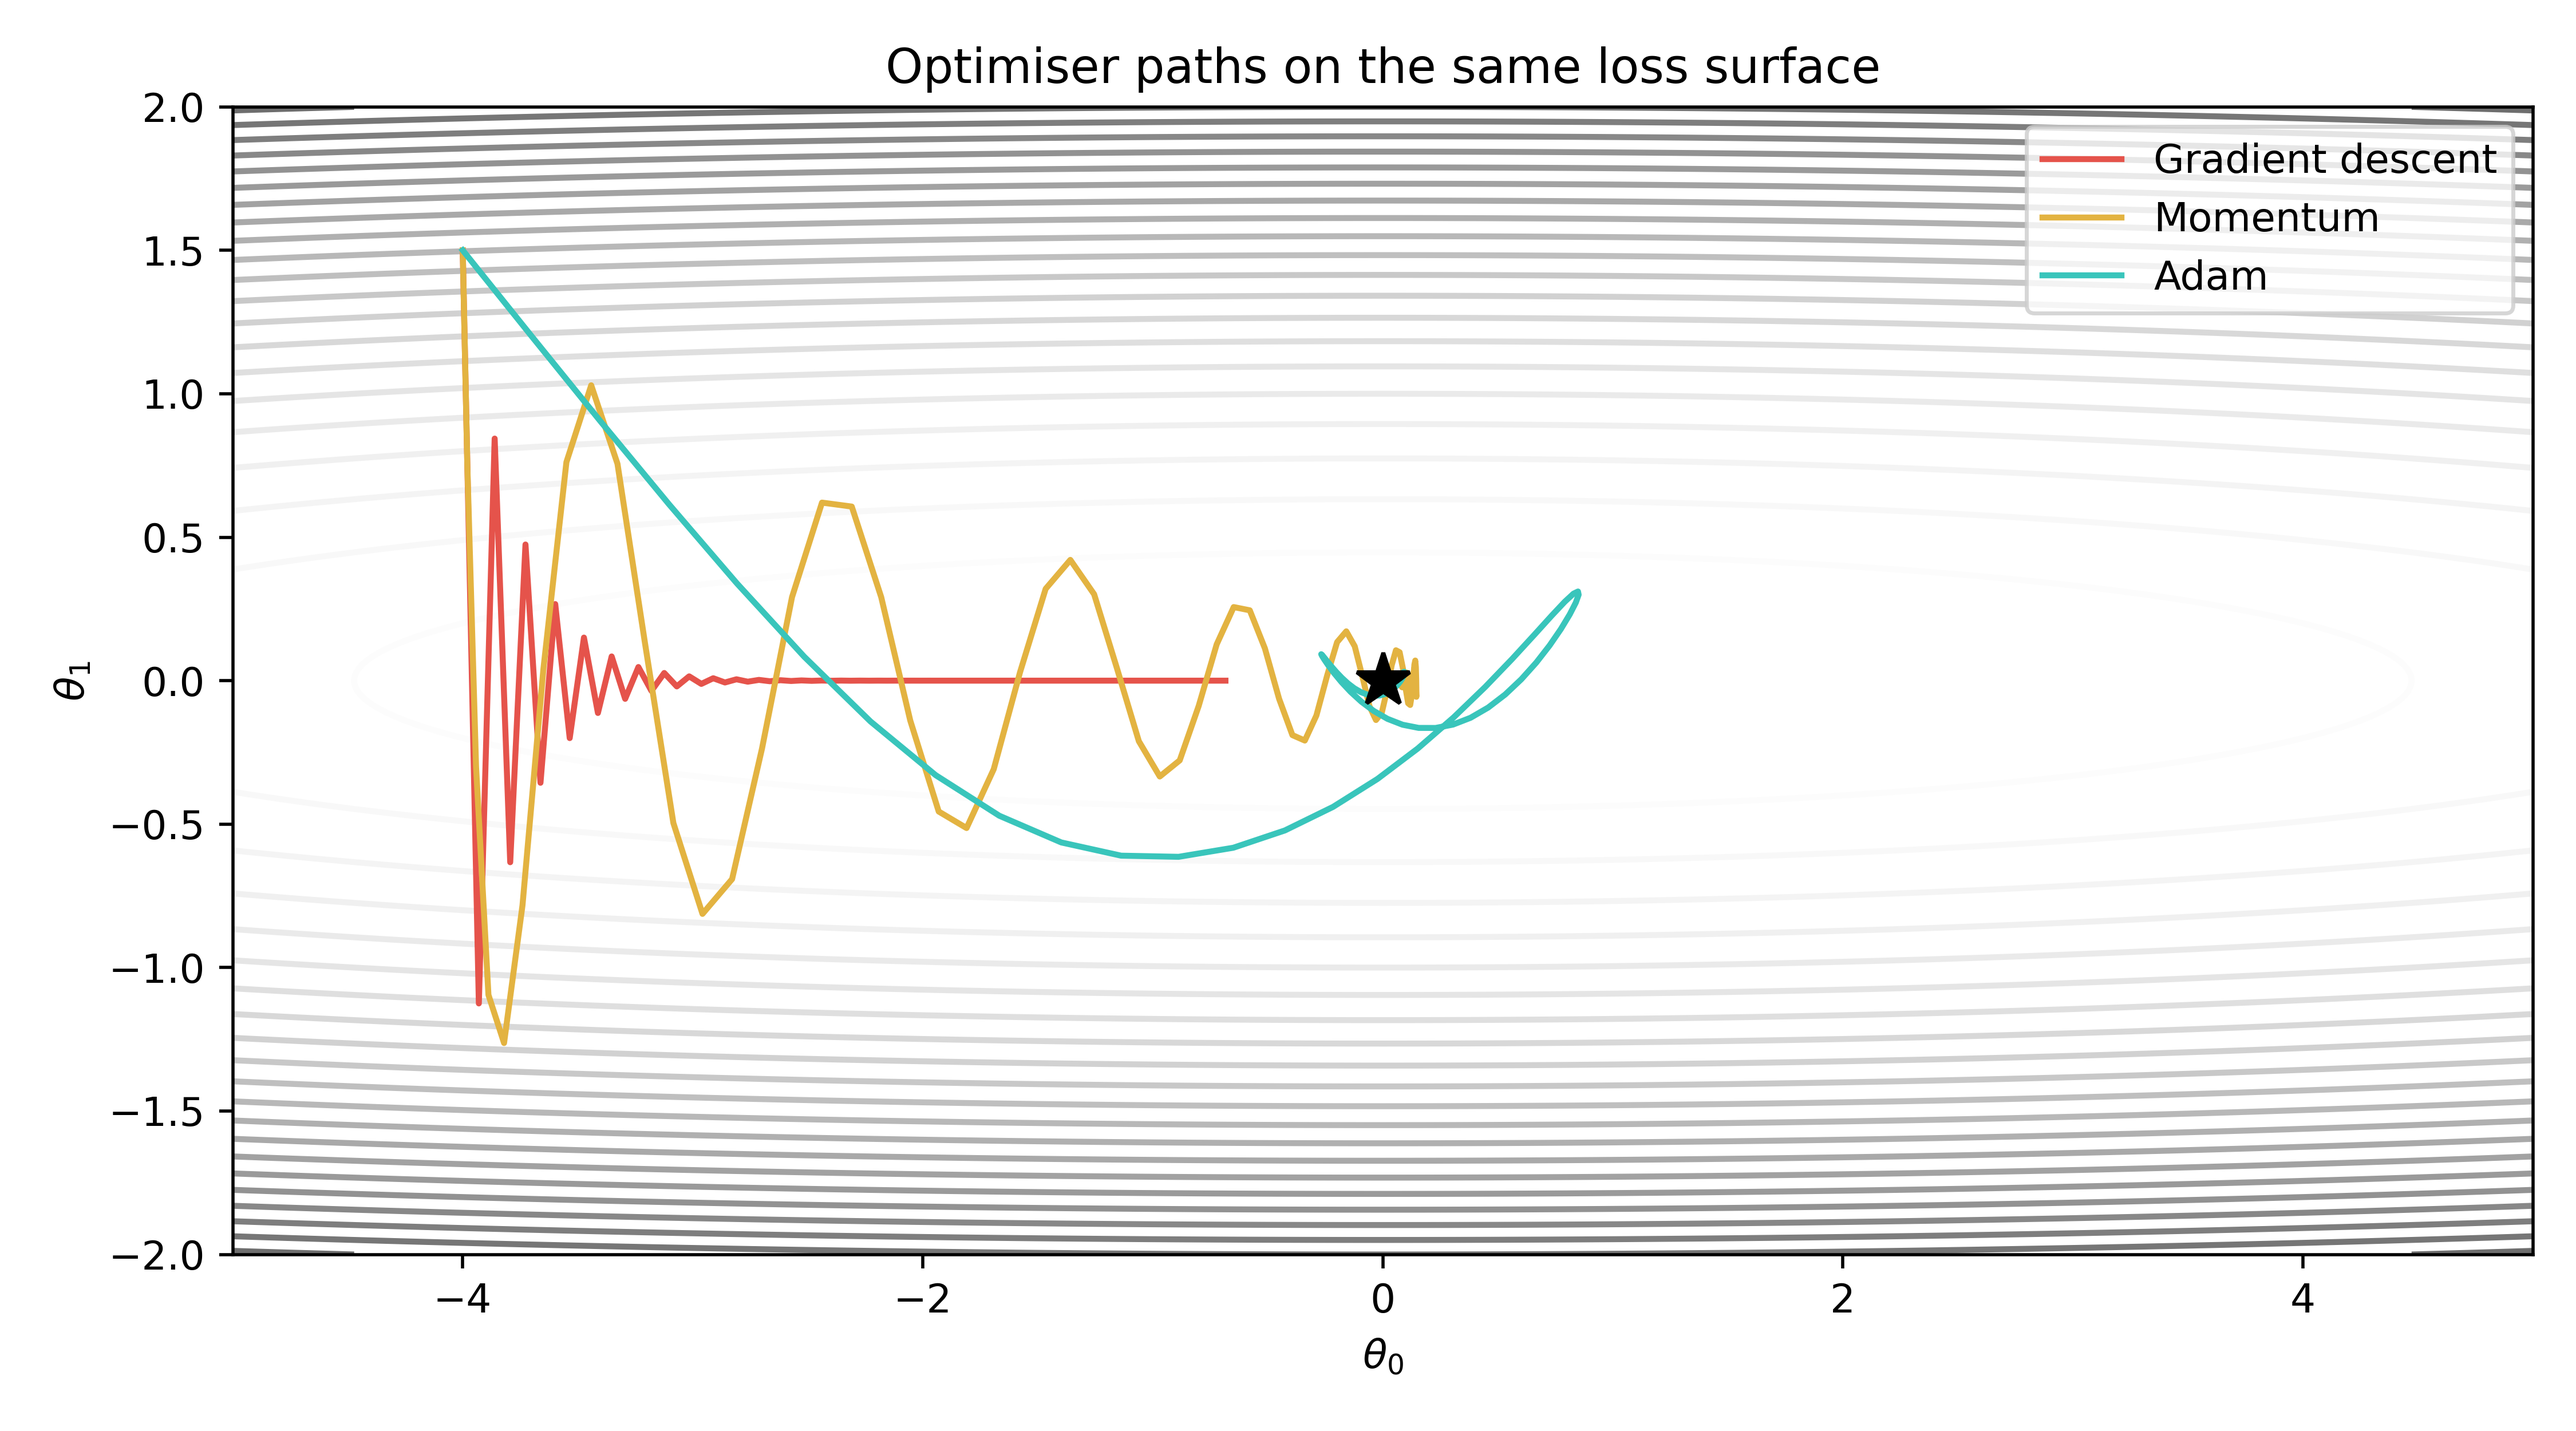
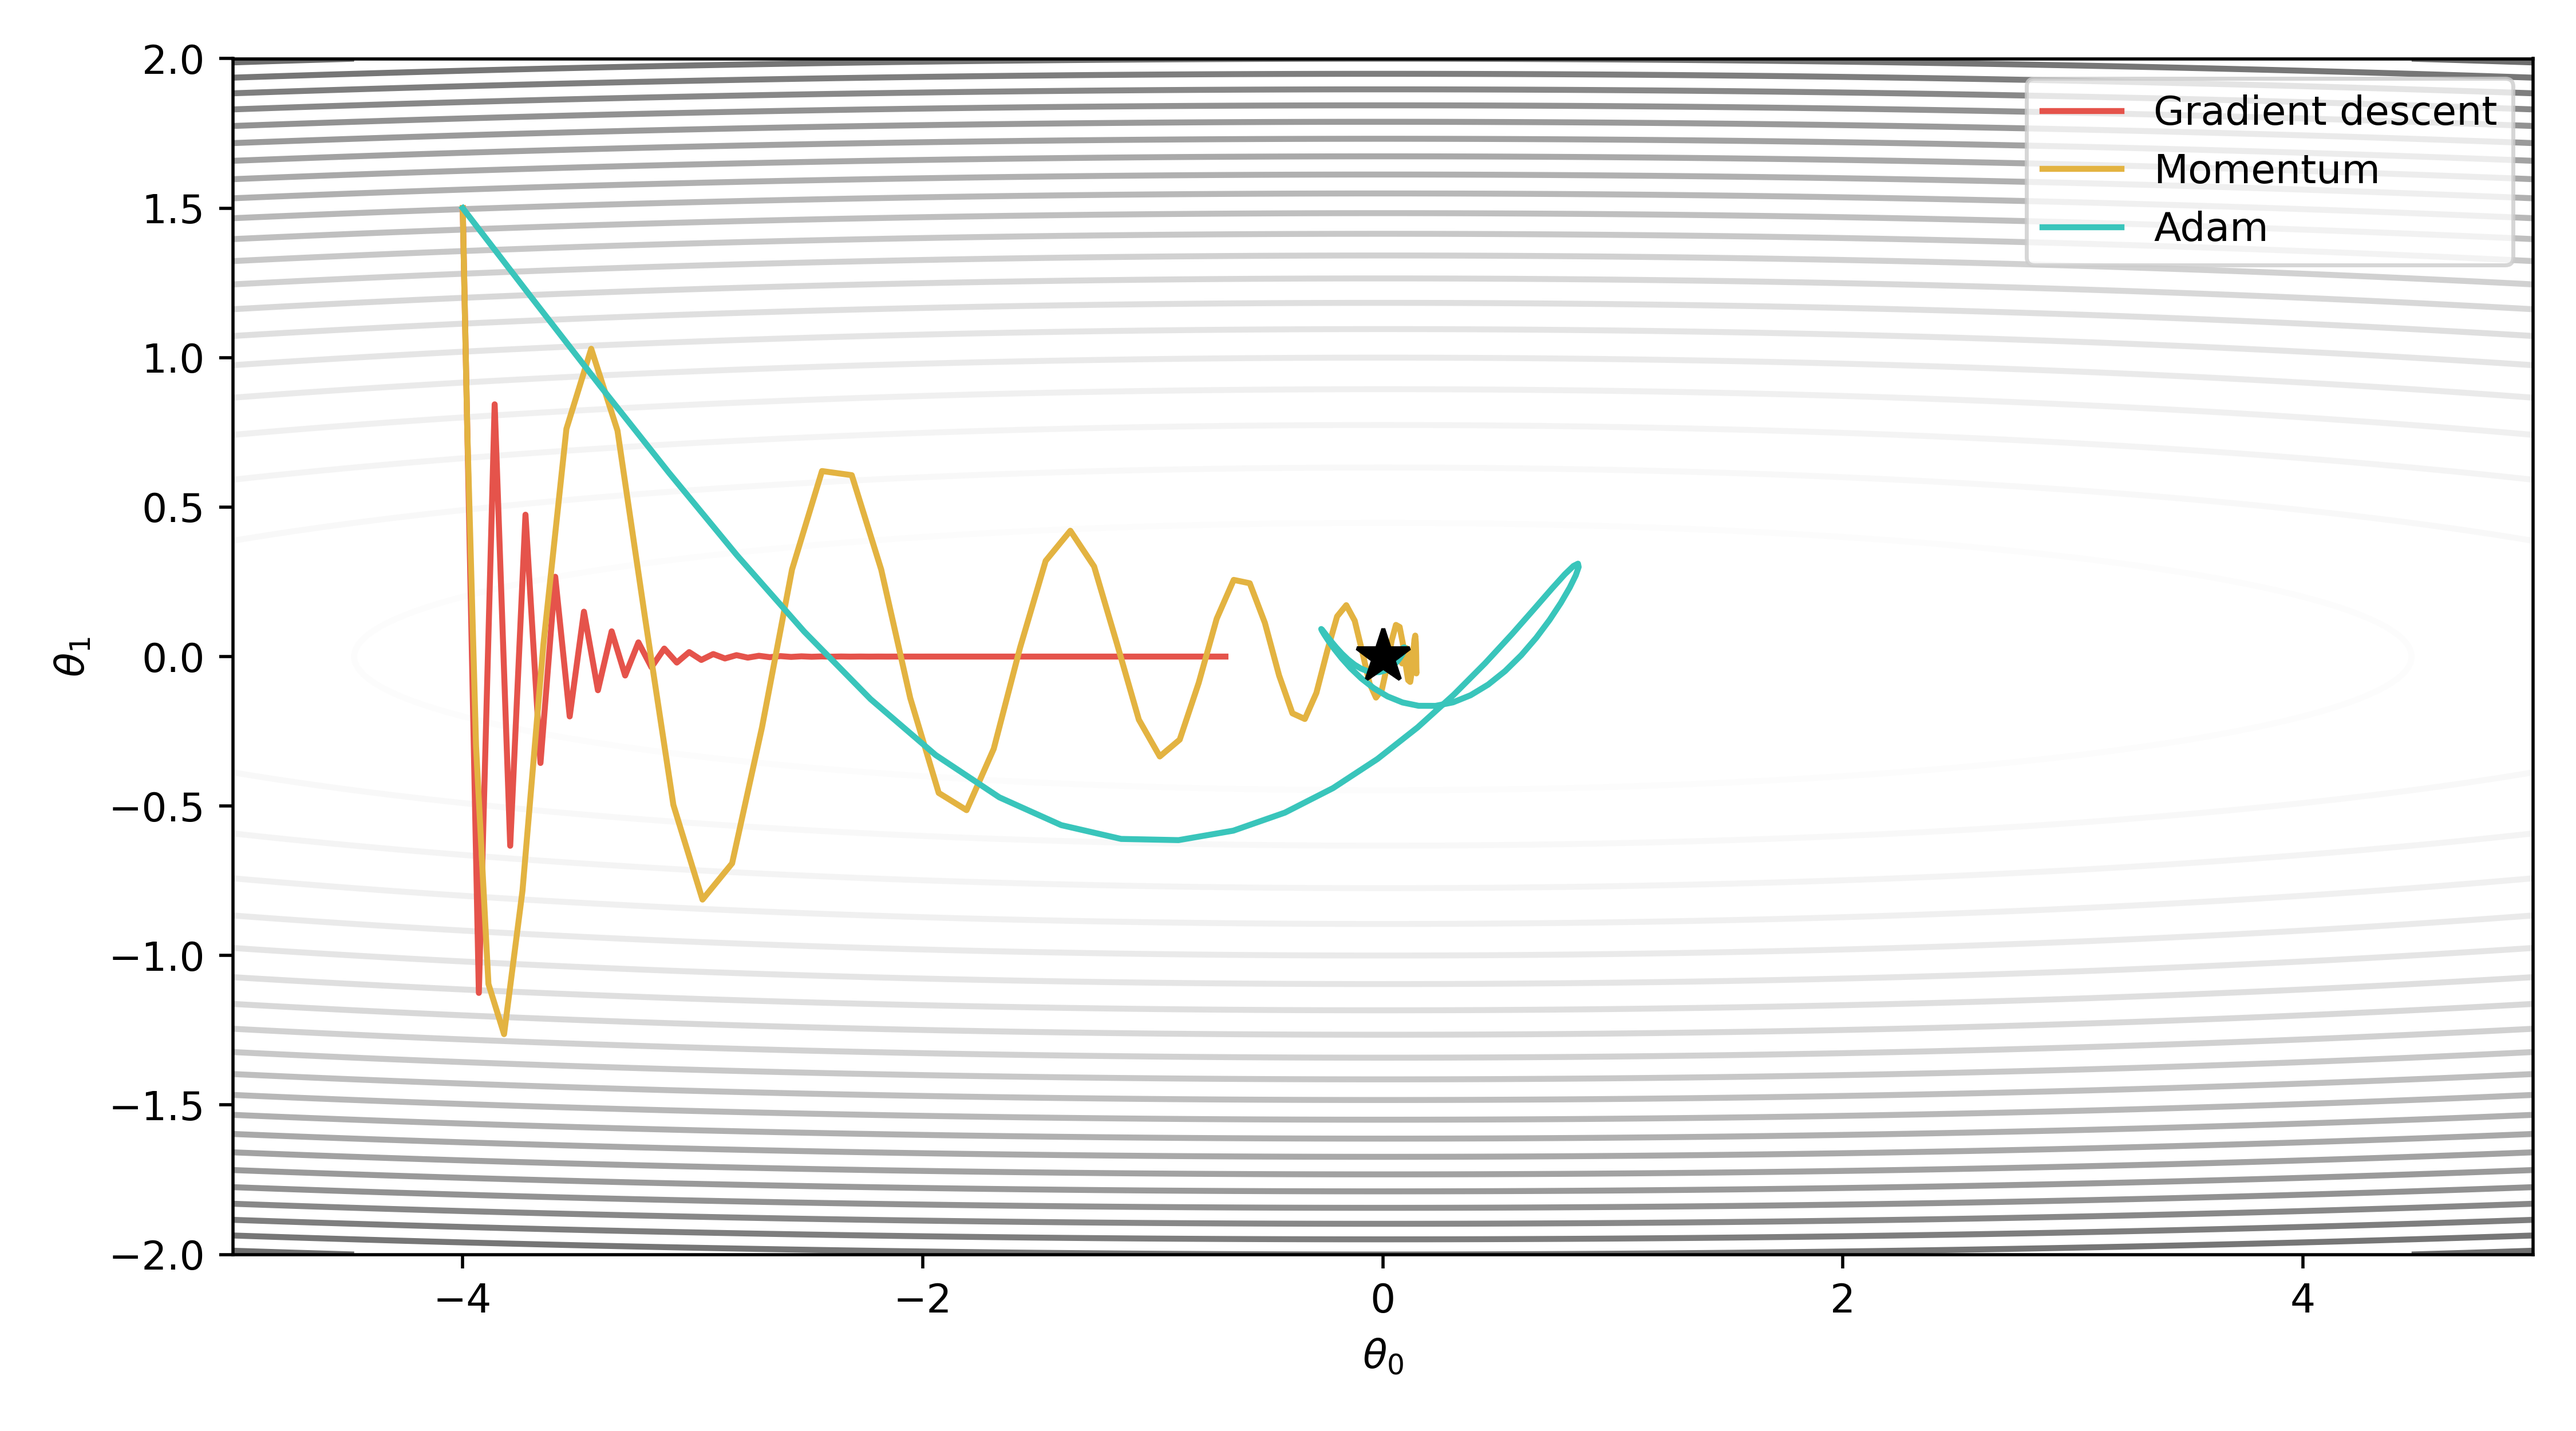
Modifications

diff --git a/main.py b/main.py
@@ -66,7 +66,7 @@ def main():
     ax.plot(0, 0, "*", ms=14, color="black")
     ax.set_xlabel(r"$\theta_0$")
     ax.set_ylabel(r"$\theta_1$")
-    ax.set_title("Optimiser paths on the same loss surface")
+    # ax.set_title("Optimiser paths on the same loss surface")
     ax.legend()
     fig.tight_layout()
     fig.savefig("paths.png", dpi=500)

diff --git a/README.md b/README.md
@@ -1,6 +1,6 @@
 # Optimisers
 
-Gradient descent, Momentum and Adam implemented from scratch with pure NumPy. All three are run on the same poorly conditioned loss surface so the differences are easy to see.
+Gradient descent, Momentum and Adam implemented from scratch with NumPy. All three optimisers are run on the same poorly conditioned loss surface so the differences are easy to see. The picture below shows visualisation of ?.
 
 ![Paths](paths.png)
 
